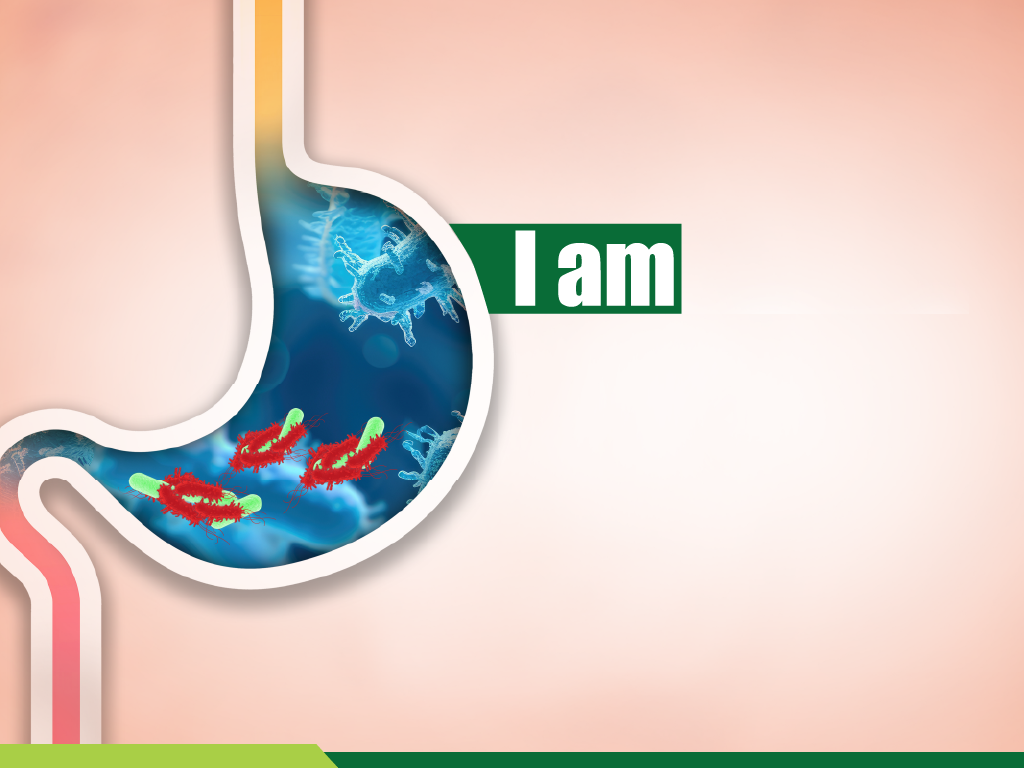
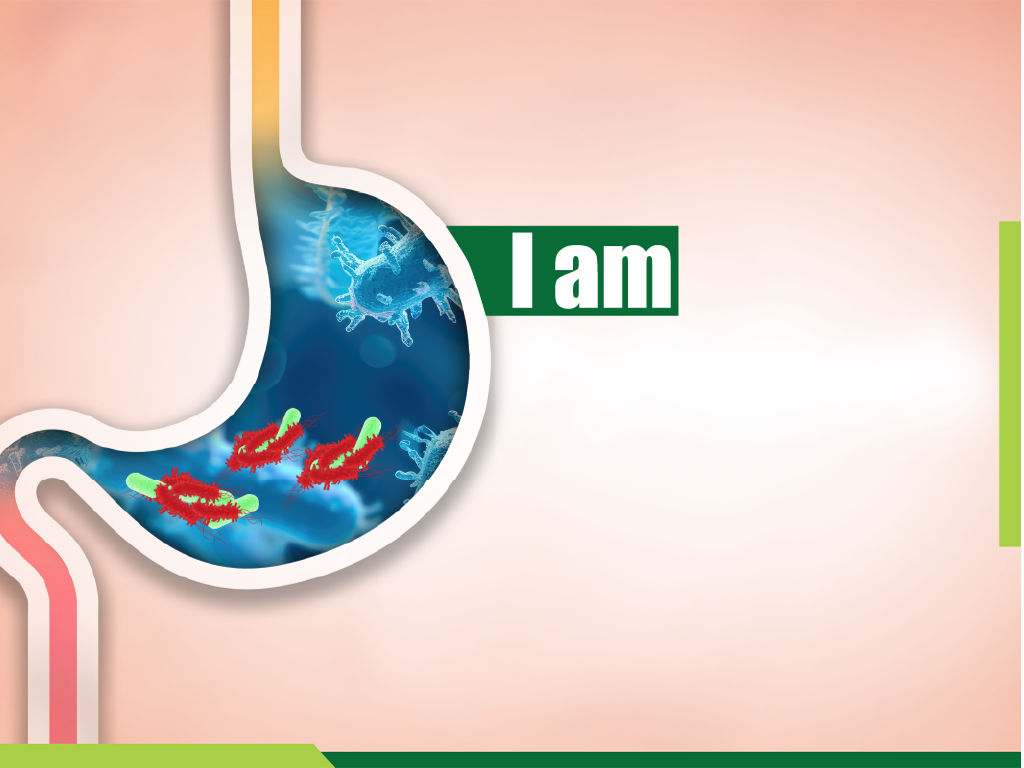
Pyloflush

diff --git a/global.js b/global.js
@@ -306,7 +306,7 @@ switch(pg_id){
 	content='<link rel="stylesheet" type="text/css" href="slide1/slide1.css" media="screen"/><div class="s1_1"><img src="slide1/s1_1.png" width="1024" height="768" alt=""/></div><div class="s1_2"><img src="slide1/s1_2.png"/></div><div class="s1_3"><img src="slide1/s1_3.png"/></div>';
 	break;
 	case 2:
-	content='<link rel="stylesheet" type="text/css" href="slide2/slide2.css" media="screen"/><div class="s1_1"><img src="slide2/s1_1.png" width="1024" height="768" alt=""/></div><div class="s1_2"><img src="slide2/s1_2.png"/></div><div class="s1_3"><img src="slide2/s1_3.png"/></div>';
+	content='<link rel="stylesheet" type="text/css" href="slide2/slide2.css" media="screen"/><div class="s1_1"><img src="slide2/s1_1.png" width="1024" height="768" alt=""/></div><div class="s1_2"><img src="slide2/s1_2.gif"/></div><div class="s1_3"><img src="slide2/s1_3.png"/></div>';
 	break;
     case 3:
 	content='<link rel="stylesheet" type="text/css" href="slide3/slide3.css" media="screen"/><div class="s1_1"><img src="slide3/s1_1.png" width="1024" height="768" alt=""/></div><div class="s1_2"><img src="slide3/s1_2.png"/></div><div class="s1_3"><img src="slide3/s1_3.png"/></div><div class="s1_4"><img src="slide3/s1_4.png"/></div><div class="s1_5"><img src="slide3/s1_5.png"/></div><div class="s1_6"><img src="slide3/s1_6.png"/></div><div class="s1_7"><img src="slide3/s1_7.png"/></div>';

diff --git a/slide4/slide4.css b/slide4/slide4.css
@@ -29,7 +29,7 @@
   width: 375px;
   height: 138px;
 	animation: slideInLeft 0.7s;
-	animation-delay: 0.6s;
+	animation-delay: 1.2s;
 	animation-fill-mode: both;
 	z-index: 5;
 }
@@ -41,7 +41,7 @@
   width: 375px;
   height: 138px;
 	animation: slideInRight 0.7s;
-	animation-delay: 1.2s;
+	animation-delay: 2.2s;
 	animation-fill-mode: both;
 	z-index: 5;
 }
@@ -53,7 +53,7 @@
   width: 375px;
   height: 138px;
 	animation: slideInRight 0.7s;
-	animation-delay: 1.8s;
+	animation-delay: 3.2s;
 	animation-fill-mode: both;
 	z-index: 5;
 }

diff --git a/slide2/slide2.css b/slide2/slide2.css
@@ -12,11 +12,11 @@
 
 .s1_2 {
 	position: absolute;
-  left: 485px;
-  top: 219px;
-  width: 539px;
-  height: 326px;
-	animation: slideInRight 0.7s;
+  left: 510px;
+  top: 337px;
+  width: 468px;
+  height: 99px;
+	animation: zoomIn 0.7s;
 	animation-delay: 0.2s;
 	animation-fill-mode: both;
 	z-index: 5;
@@ -24,8 +24,8 @@
 
 .s1_3 {
 	position: absolute;
-  left: 517px;
-  top: 462px;
+  left: 511px;
+  top: 470px;
   width: 414px;
   height: 81px;
 	animation: fadeInUp 0.5s;
